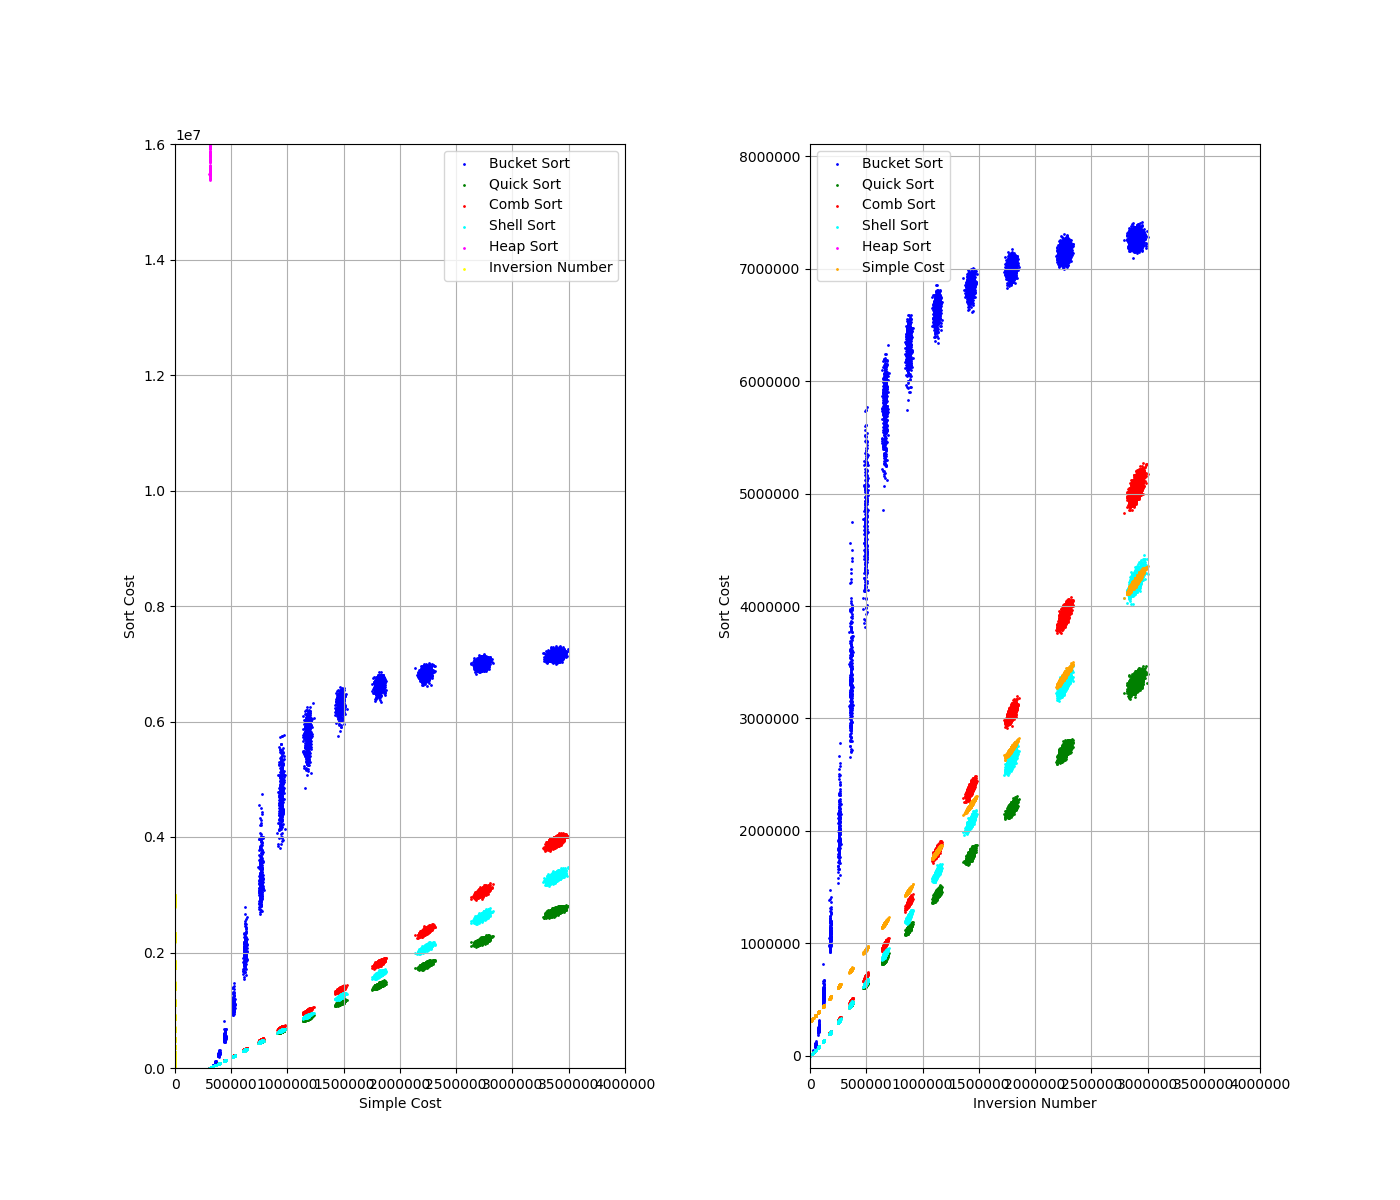
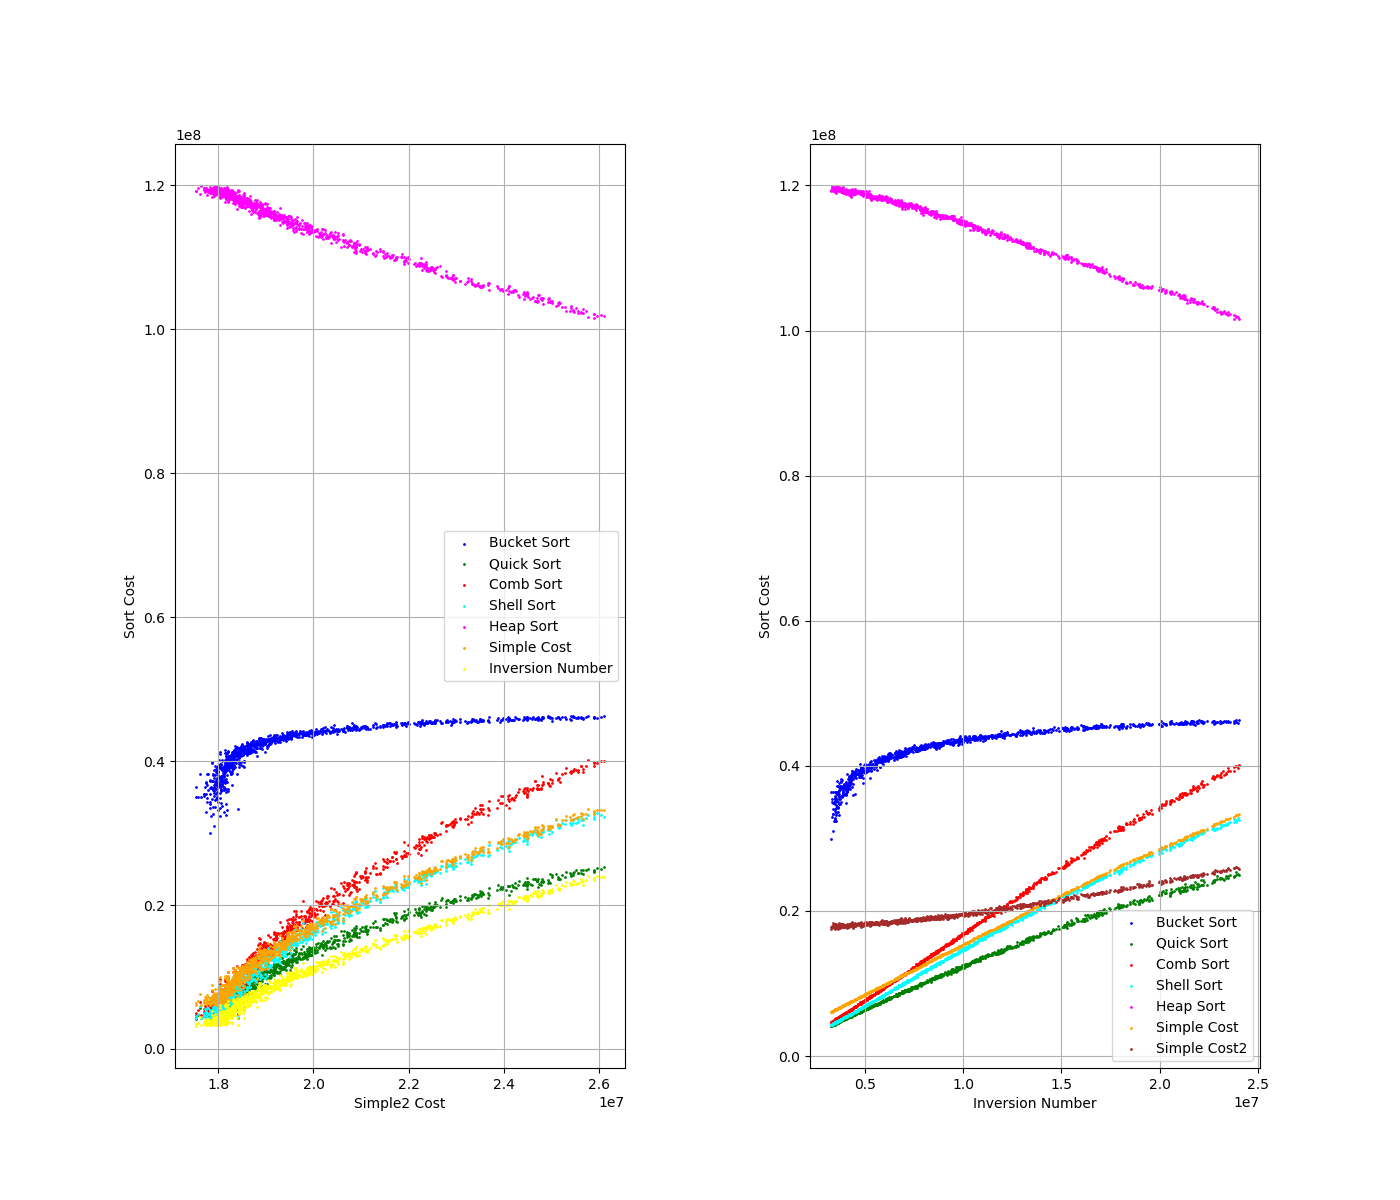
simple cost 2

diff --git a/sort_test/Mitarushi_compare_const_n.py b/sort_test/Mitarushi_compare_const_n.py
@@ -3,16 +3,17 @@ from random import randint
 import matplotlib.pyplot as plt
 from tqdm import trange
 
-LENGTH = 4000
-FLIP_MAX = 4000
-FLIP_MIN = 3
-TRY = 10000
+LENGTH = 10000
+FLIP_MAX = 10000
+FLIP_MIN = 0
+TRY = 1000
 sorts = [("Bucket Sort", swap_sort, "blue"),
          ("Quick Sort", quick_sort, "green"),
          ("Comb Sort", comb_sort, "red"),
          ("Shell Sort", shell_sort, "cyan"),
          ("Heap Sort", heap_sort, "magenta"),
-         ("Simple Cost", simple_sort_cost, "orange")]
+         ("Simple Cost", simple_sort_cost, "orange"),
+         ("Simple Cost2", simple_sort_cost2, "brown")]
 reverse_imfo = ("Inversion Number", get_reverse_count, "yellow")
 
 
@@ -36,23 +37,23 @@ if __name__ == "__main__":
     ax1 = plt.subplot2grid((2, 7), (0, 0), 2, 3)
     ax2 = plt.subplot2grid((2, 7), (0, 4), 2, 3)
 
-    ax1.set_xlabel("Simple Cost")
+    ax1.set_xlabel("Simple2 Cost")
     ax1.set_ylabel("Sort Cost")
-    ax1.set_xlim(0, 4000000)
-    ax1.set_ylim(0, 16000000)
+    # ax1.set_xlim(0, 4000000)
+    # ax1.set_ylim(0, 16000000)
     ax1.grid()
     for i, (name, _, color) in enumerate(sorts[:-1]):
         ax1.scatter(result_sort[-1], result_sort[i], label=name, c=color, s=1)
-    ax1.scatter(result_n, result_reverse,
+    ax1.scatter(result_sort[-1], result_reverse,
                 label=reverse_imfo[0], c=reverse_imfo[2], s=1)
     ax1.legend()
 
     ax2.set_xlabel("Inversion Number")
     ax2.set_ylabel("Sort Cost")
-    ax2.set_xlim(0, 4000000)
-    ax2.set_ylim(0, 8000000)
+    # ax2.set_xlim(0, 4000000)
+    # ax2.set_ylim(0, 8000000)
     ax2.grid()
-    ax2.set_aspect("equal", "datalim")
+    # ax2.set_aspect("equal", "datalim")
     for i, (name, _, color) in enumerate(sorts):
         ax2.scatter(result_reverse, result_sort[i], label=name, c=color, s=1)
     ax2.legend()

diff --git a/sort_test/Mitarushi_compare_sort.py b/sort_test/Mitarushi_compare_sort.py
@@ -5,15 +5,16 @@ from tqdm import trange
 
 MAX_LENGTH = 4000
 MIN_LENGTH = 10
-TRY = 10000
+TRY = 1000
 sorts = [("Bucket Sort", swap_sort, "blue"),
          ("Quick Sort", quick_sort, "green"),
          ("Comb Sort", comb_sort, "red"),
          ("Shell Sort", shell_sort, "cyan"),
          ("Heap Sort", heap_sort, "magenta"),
-         ("Simple Cost", simple_sort_cost, "orange")]
+         ("Simple Cost", simple_sort_cost, "orange"),
+         ("Simple Cost2", simple_sort_cost2, "brown")]
 reverse_imfo = ("Inversion Number", get_reverse_count, "yellow")
-half_sort = True
+half_sort = False
 
 
 if __name__ == "__main__":
@@ -25,7 +26,7 @@ if __name__ == "__main__":
         n = randint(MIN_LENGTH, MAX_LENGTH)
         s = generate_random(n)
         if half_sort:
-            half_sorted(s, max(2, n//2))
+            half_sorted(s, max(1, n // 3))
 
         result_n.append(n)
         result_reverse.append(get_reverse_count(s))

diff --git a/sort_test/Mitarushi_sort_reverse.py b/sort_test/Mitarushi_sort_reverse.py
@@ -135,9 +135,12 @@ def half_sorted(s, k):
         for i in range(len(s) - h):
             if s[i] > s[i + h]:
                 s[i], s[i + h] = s[i + h], s[i]
-        if h <= k:
-            return
+                k -= 1
+                if k <= 0:
+                    return
         h = max(1, h * 10 // 13)
+        if h == 1:
+            return
 
 
 def simple_sort_cost(s):
@@ -153,6 +156,13 @@ def simple_sort_cost(s):
     for ind, i in enumerate(s):
         cost += abs(ind - char_from[i])
     return cost
+
+
+def simple_sort_cost2(s):
+    cost = 0
+    for ind, i in enumerate(s):
+        cost += (26 - i) * ind
+    return cost // 26
 
 
 class BIT:
@@ -198,4 +208,5 @@ if __name__ == "__main__":
     print("comb", comb_sort(s[:]))
     print("shell", shell_sort(s[:]))
     print("heap", heap_sort(s[:]))
+    print("simple cost2", simple_sort_cost2(s[:]))
     print(get_reverse_count(s))
